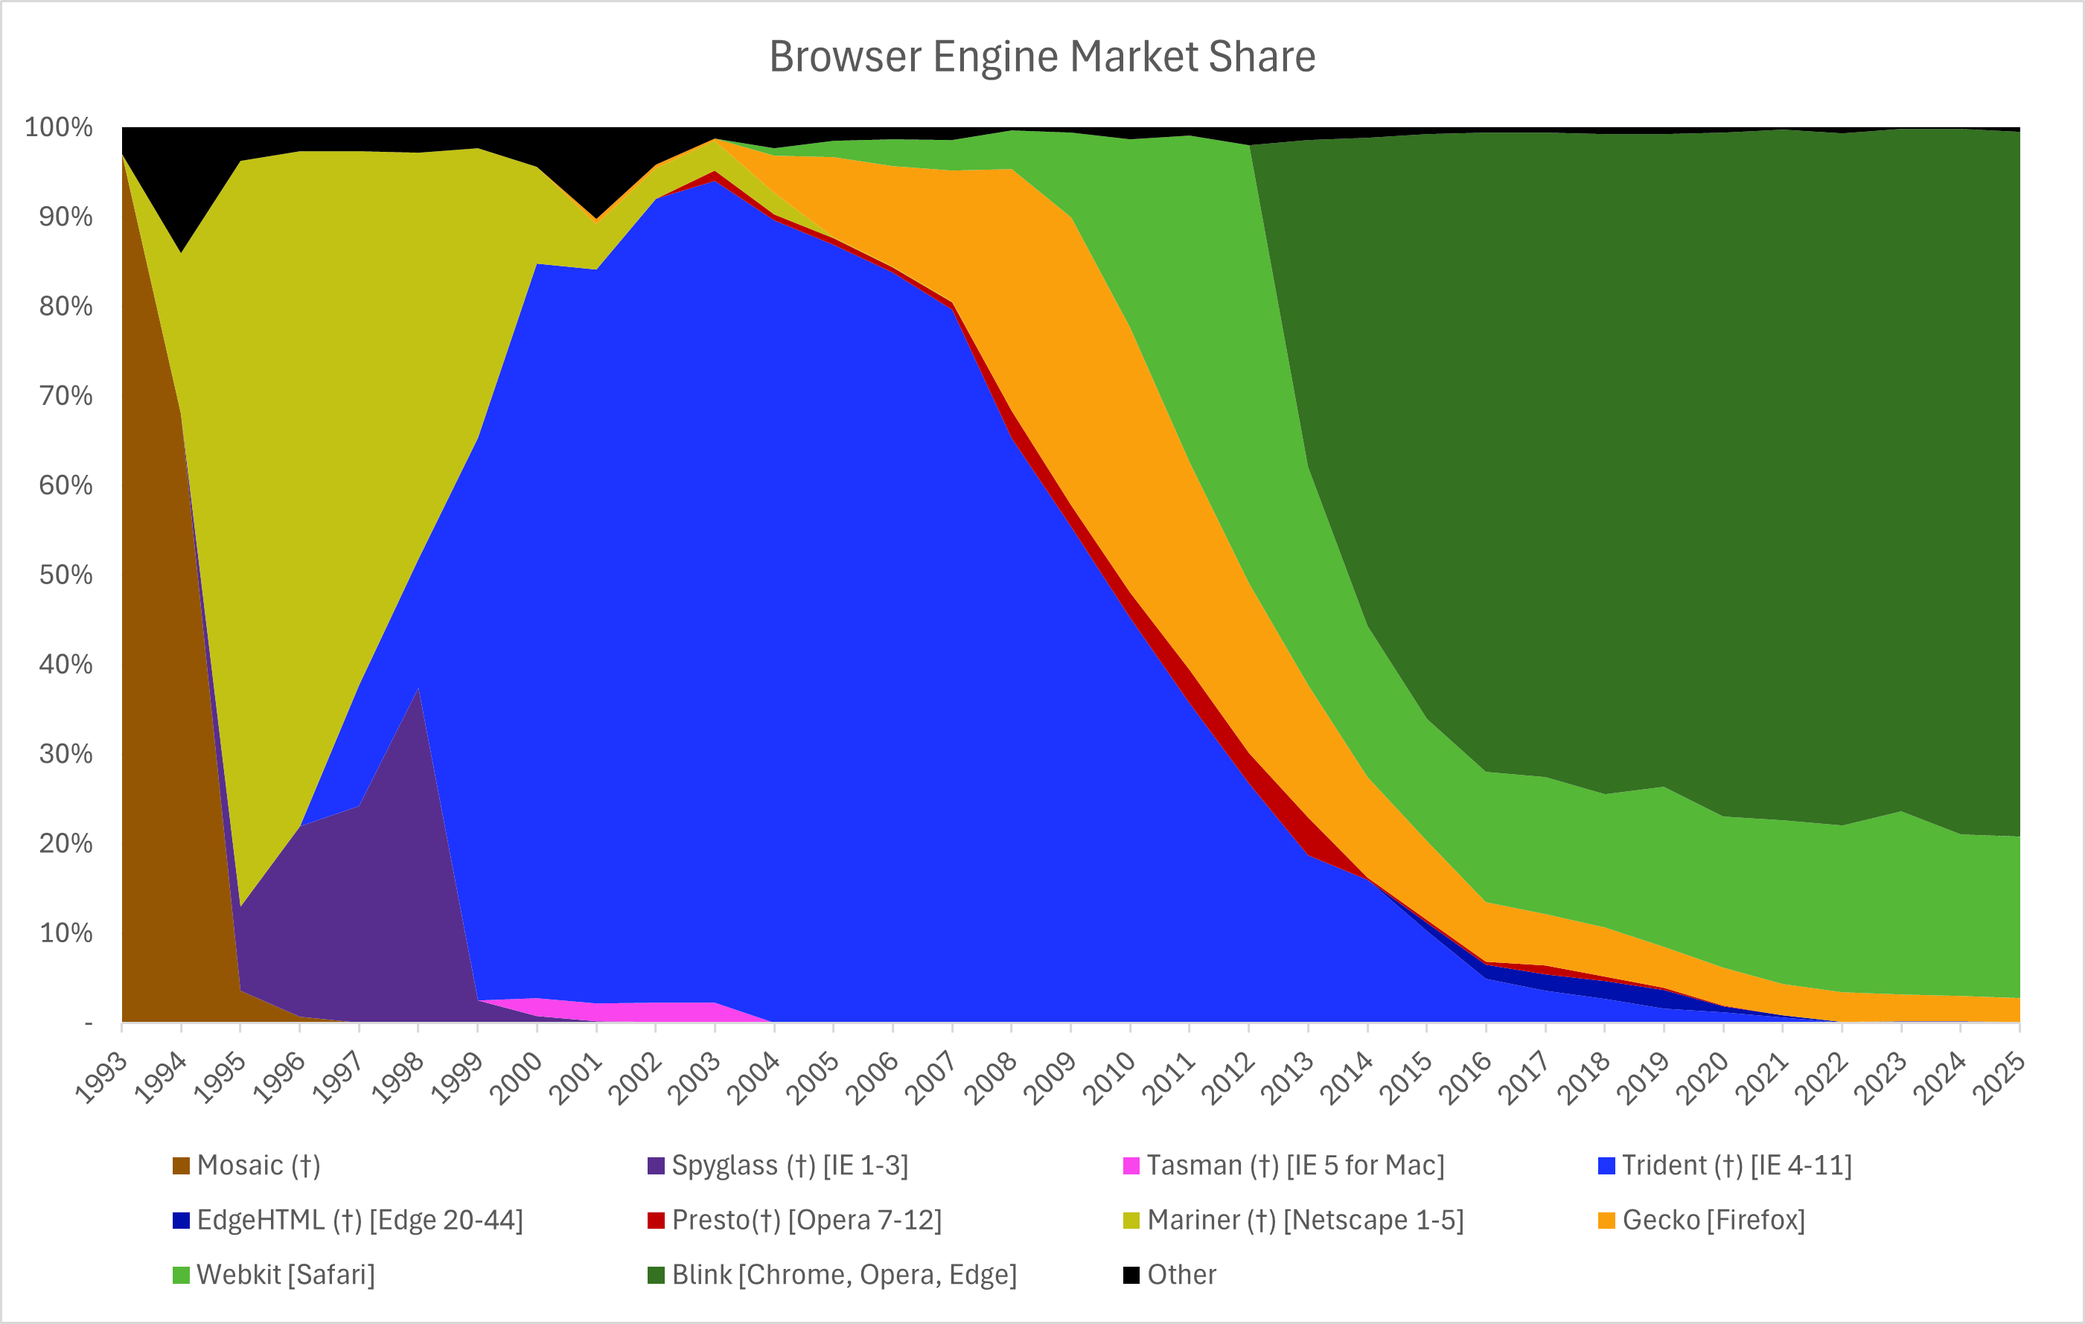
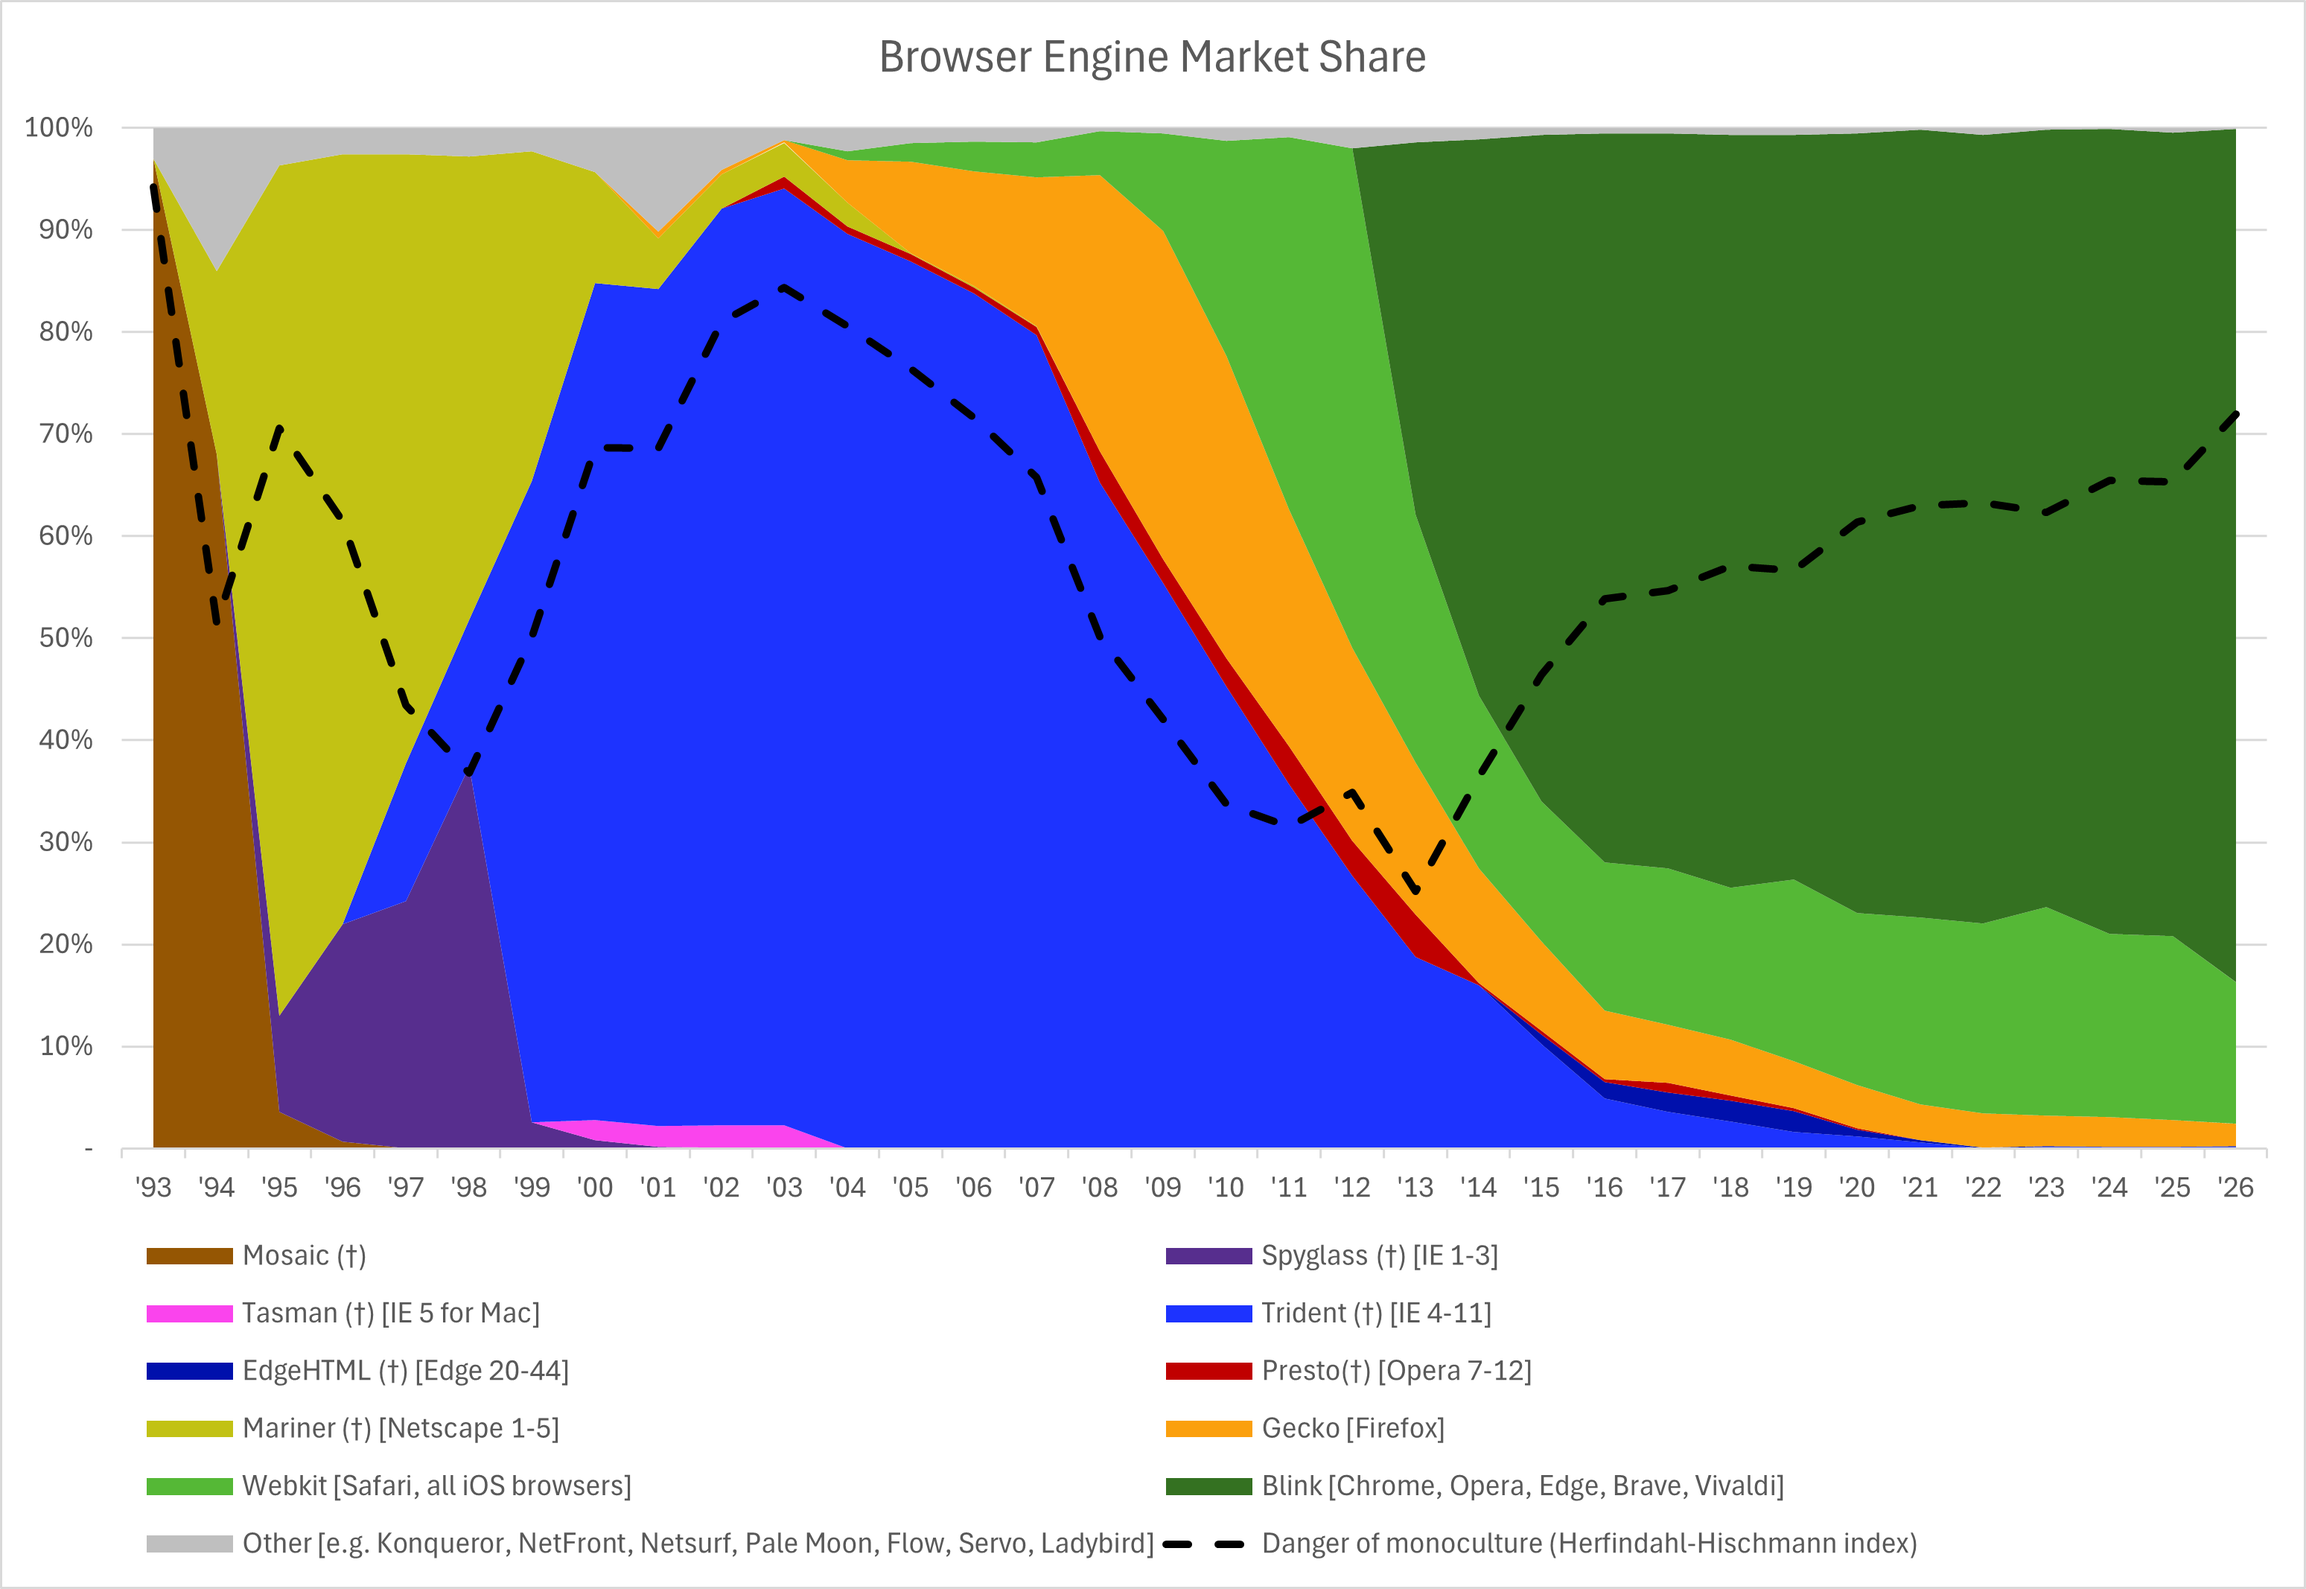
Add dominance index to browser engine market share

diff --git a/index.html b/index.html
@@ -65,7 +65,7 @@ div.article { border: 3px solid #222; width: 97%; margin: 5px; padding-left: 10p
 </div>
 
 <div class="article">
-<h2>(5b) <strong><a href="browser_engines.htm">Web Browers - History of Browser Engines</a></strong> from 1990 to Today</h2><p> <span class="gold">(last update: March 2025)</span>
+<h2>(5b) <strong><a href="browser_engines.htm">Web Browers - History of Browser Engines</a></strong> from 1990 to Today</h2><p> <span class="gold">(last update: March / October 2025)</span>
 <br />Many tried, few remain. Will any Chromium competitors be left in a few years?</p>
 </div>
 

diff --git a/browser_engines.htm b/browser_engines.htm
@@ -96,6 +96,7 @@ We're now well into the "fourth era of dominance". NCSA Mosaic dominated at the 
 
 <hr>
 <h2>Historical Market Share by Engine</h2>
+<p style="color: red; font-size: small;">Last updated: October 2025</p>
 <a href="pics/Browser Engine Market Share.png" target="_blank"><img src="pics/Browser Engine Market Share.png" style="max-width: 100%;" alt="Hhistorical market shares of browser engines" /></a>
 <p>
 Sources:<br />
